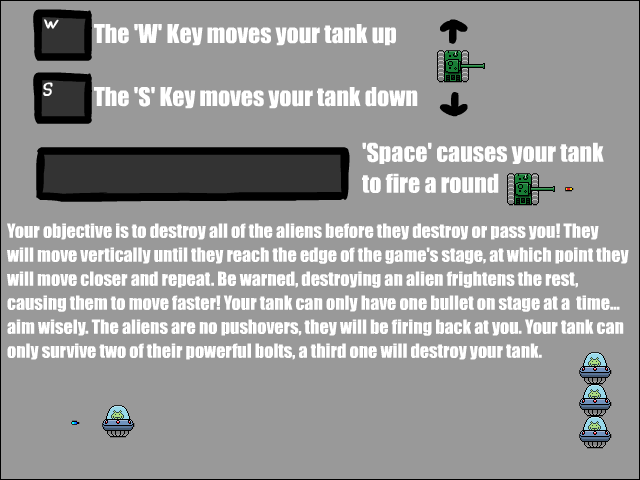
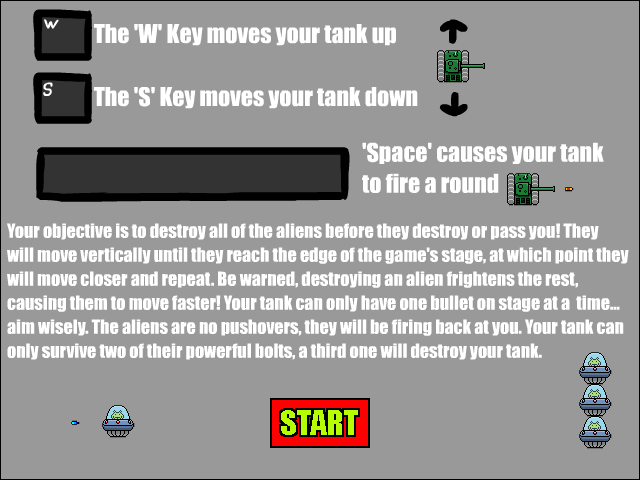
Added a game over screen. implemented scoring system. Added care package object to the game (for bonus points).

Changed region(s): [[0.4062, 0.8125, 0.5938, 0.9375]]

diff --git a/COMP2068-Assignment3/Scripts/states/play.ts b/COMP2068-Assignment3/Scripts/states/play.ts
@@ -5,8 +5,10 @@ module states {
      */
     export function playState(): void {
         tank.update(); //updates tank's position
-        //island.update(); //updates island's position
+        carePackage.update(); //updates carePackage's position
         //ocean.update(); //updates ocean's position
+
+        checkCollision(tank, false, carePackage, true);
 
         //if the tank's bullet is onscreen...
         if (tank.bulletOnScreen) {
@@ -27,11 +29,14 @@ module states {
 
             aliens[alien].checkTarget(); //check if the tank is in firing range
 
-            checkCollision(tank, aliens[alien]); //check if the tank and alien have collided
+            //check if the tank and alien have collided
+            //tank takes damage, the alien does not
+            checkCollision(tank, true, aliens[alien], false);
 
             //if the bullet is onscreen...
             if (tank.bulletOnScreen) {
-                checkCollision(tank.bullet, aliens[alien]); //check if the alien collided with it
+                //check if the alien collided with it
+                checkCollision(tank.bullet, true,  aliens[alien], true);
             } //if ends
         } //for ends
 
@@ -41,7 +46,8 @@ module states {
 
             //only check for collision if the bolt wasn't removed from the game in its update
             if (bolts[bolt] != null) {
-                checkCollision(tank, bolts[bolt]); //check if it collided with the tank
+                //check if it collided with the tank
+                checkCollision(tank, true, bolts[bolt], true); 
             } //if ends
         } //for ends
 
@@ -49,6 +55,12 @@ module states {
         for (var explosion = numberOfExplosions - 1; explosion >= 0; explosion--) {
             explosions[explosion].checkTime(); //check if it should stay on screen
         } //for ends
+
+        if (numberOfAliens == 0) {
+            score += 5000;
+            currentState = constants.GAME_OVER_STATE;
+            changeState(currentState);
+        } //if ends
     } //function playState ends
 
     /*
@@ -66,13 +78,16 @@ module states {
         //initialize the bolts of explosions to 0
         numberOfBolts = 0;
 
+        //initialize score to 0
+        score = 0;
+
         //add background to game
         background = new objects.Background();
         stage.addChild(background);
     
         //add island to game
-        island = new objects.Island();
-        stage.addChild(island);
+        carePackage = new objects.CarePackage();
+        stage.addChild(carePackage);
 
         //add tank to game
         tank = new objects.Tank();
@@ -111,7 +126,7 @@ module states {
     /*
      * This function checks for collisions between two game objects.
      */
-    function checkCollision(collider1: objects.GameObject, collider2: objects.GameObject) {
+    function checkCollision(collider1: objects.GameObject, takesDamage1: boolean, collider2: objects.GameObject, takesDamage2: boolean) {
         //create points for each of the objects positions
         var p1: createjs.Point = new createjs.Point();
         var p2: createjs.Point = new createjs.Point();
@@ -133,9 +148,15 @@ module states {
                 collider1.isColliding = true;
                 collider2.isColliding = true;
 
-                //call the collide method of each object
-                collider1.collide();
-                collider2.collide();
+                //if the first objects takes damage from the collision...
+                if (takesDamage1) {
+                    collider1.collide(); //call its collide method
+                } //if ends
+
+                //if the second objects takes damage from the collision...
+                if (takesDamage2) {
+                    collider2.collide(); //call its collide method
+                } //if ends
             } //if ends
         } //if ends
 

diff --git a/COMP2068-Assignment3/Scripts/game.js b/COMP2068-Assignment3/Scripts/game.js
@@ -60,6 +60,11 @@
  *
  * v0.14:
  * -Added an instructions screen to the game.
+ *
+ * v0.15:
+ * -Added a game over screen.
+ * -implemented scoring system.
+ * -Added care package object to the game (for bonus points).
  */
 /// <reference path="typings/createjs-lib/createjs-lib.d.ts" />
 /// <reference path="typings/easeljs/easeljs.d.ts" />
@@ -68,7 +73,7 @@
 /// <reference path="typings/preloadjs/preloadjs.d.ts" />
 /// <reference path="objects/gameobject.ts" />
 /// <reference path="objects/alien.ts" />
-/// <reference path="objects/island.ts" />
+/// <reference path="objects/carePackage.ts" />
 /// <reference path="objects/background.ts" />
 /// <reference path="objects/tank.ts" />
 /// <reference path="objects/bullet.ts" />
@@ -77,6 +82,7 @@
 /// <reference path="constants.ts" />
 /// <reference path="states/play.ts" />
 /// <reference path="states/menu.ts" />
+/// <reference path="states/gameover.ts" />
 /// <reference path="states/instructions.ts" />
 //Canvas and Asset Objects
 var canvas;
@@ -84,7 +90,7 @@ var stage;
 var assetLoader;
 //Game Objects and Variables
 var tank;
-var island;
+var carePackage;
 var aliens = [];
 var background;
 var numberOfAliens;
@@ -96,13 +102,15 @@ var startButton;
 var instructionsButton;
 var menuScreen;
 var instructionsScreen;
+var score;
+var scoreText;
 //state objects
 var currentState;
 var currentStateFunction;
 //asset manifest - array of asset objects
 var manifest = [
     { id: "alien", src: "assets/images/Alien.png" },
-    { id: "island", src: "assets/images/island.png" },
+    { id: "carePackage", src: "assets/images/CarePackage.png" },
     { id: "background", src: "assets/images/Background.png" },
     { id: "tank", src: "assets/images/Tank.png" },
     { id: "bullet", src: "assets/images/Bullet.png" },
@@ -152,6 +160,8 @@ function changeState(state) {
             states.play();
             break;
         case constants.GAME_OVER_STATE:
+            currentStateFunction = states.gameOverState;
+            states.gameOver();
             break;
         case constants.INSTRUCTIONS_STATE:
             currentStateFunction = states.instructionsState;

diff --git a/COMP2068-Assignment3/Scripts/objects/carePackage.ts b/COMP2068-Assignment3/Scripts/objects/carePackage.ts
@@ -1,40 +1,34 @@
 module objects {
-    export class Island extends createjs.Bitmap {
-        //instance variables
-        public width;
-        public height;
-        private _dy = 5;
-
+    export class CarePackage extends objects.GameObject {
[1 lines of base64/hex data omitted]
         constructor() {
-            super(assetLoader.getResult("island"));
-
-            this.width = this.getBounds().width;
-            this.height = this.getBounds().height;
-
-            this.regX = this.getBounds().width * 0.5;
-            this.regY = this.getBounds().height * 0.5;
+            super("carePackage");
 
             this._reset();
         } //constructor ends
 
         //Private Methods/////////////////////////////////////////////////////////////////////////
         private _reset() {
-            //set x to a random number
-            this.x = Math.floor(Math.random() * 640);
-            this.y = -this.width;
+            this.x = 1280 + this.width;
+            this.y = Math.floor(Math.random() * 480);
         } //method reset ends
 
         private _checkBounds() {
-            if (this.y > 480 + this.height) {
+            if (this.x < 0 - this.width) {
                 this._reset();
             } //if ends
         } //method checkBounds ends
+
         //Public Methods//////////////////////////////////////////////////////////////////////////
-        update() {
-            this.y += this._dy;
+        public update(): void {
+            this.x -= 5;
 
             this._checkBounds();
         } //method update ends
-    } //class Plane ends
+
+        public collide(): void {
+            score += 300;
+            this._reset();
+        } //method collide ends
+    } //class CarePackage ends
 } //module objects ends  

diff --git a/COMP2068-Assignment3/Scripts/objects/alien.ts b/COMP2068-Assignment3/Scripts/objects/alien.ts
@@ -79,6 +79,11 @@ module objects {
          * This method updates the alien's position
          */
         public update(): void {
+            if (this.x < 0) {
+                currentState = constants.GAME_OVER_STATE
+                changeState(currentState);
+            } //if ends
+
             //if the alien is moving forward...
             if (this._movingForward) {
                 //if the alien's speed is greater than 0...
@@ -135,6 +140,9 @@ module objects {
          * or a bullet.
          */
         public collide(): void {
+            //add to the score based on how far away the alien was
+            score += Math.floor(this.x);
+
             //create an explosion at the place the collision occured
             explosions[numberOfExplosions] = new objects.Explosion(this.x, this.y);
             stage.addChild(explosions[numberOfExplosions]);

diff --git a/COMP2068-Assignment3/Scripts/states/menu.ts b/COMP2068-Assignment3/Scripts/states/menu.ts
@@ -37,7 +37,8 @@
     } //function menu ends
 
     export function startButtonClick() {
-        changeState(constants.PLAY_STATE);
+        currentState = constants.PLAY_STATE;
+        changeState(currentState);
     } //function playButtonClick ends
 
     export function startButtonMouseOver() {
@@ -49,7 +50,8 @@
     } //function playButtonMouseOver ends
 
     export function instructionsButtonClick() {
-        changeState(constants.INSTRUCTIONS_STATE);
+        currentState = constants.INSTRUCTIONS_STATE;
+        changeState(currentState);
     } //function playButtonClick ends
 
     export function instructionsButtonMouseOver() {
@@ -59,5 +61,4 @@
     export function instructionsButtonMouseOut() {
         instructionsButton.alpha = 1;
     } //function playButtonMouseOver ends
-
 } //module states ends

diff --git a/COMP2068-Assignment3/index.html b/COMP2068-Assignment3/index.html
@@ -20,7 +20,7 @@
     <!--Game Scripts-->
     <script src="Scripts/objects/gameObject.js"></script>
     <script src="Scripts/objects/tank.js"></script>
-    <script src="Scripts/objects/island.js"></script>
+    <script src="Scripts/objects/carePackage.js"></script>
     <script src="Scripts/objects/alien.js"></script>
     <script src="Scripts/objects/background.js"></script>
     <script src="Scripts/objects/bullet.js"></script>
@@ -29,6 +29,7 @@
     <script src="Scripts/constants.js"></script>
     <script src="Scripts/states/menu.js"></script>
     <script src="Scripts/states/play.js"></script>
+    <script src="Scripts/states/gameOver.js"></script>
     <script src="Scripts/states/instructions.js"></script>
 
     <script src="Scripts/game.js"></script>

diff --git a/COMP2068-Assignment3/Scripts/states/instructions.ts b/COMP2068-Assignment3/Scripts/states/instructions.ts
@@ -14,5 +14,15 @@
         instructionsScreen = new createjs.Bitmap("assets/images/InstructionsScreen.png");
         instructionsScreen.x = 320;
         stage.addChild(instructionsScreen);
+
+        //add the start button
+        startButton = new createjs.Bitmap("assets/images/StartButton.png");
+        startButton.x = 590;
+        startButton.y = 398;
+        stage.addChild(startButton);
+
+        startButton.addEventListener("click", startButtonClick);
+        startButton.addEventListener("mouseover", startButtonMouseOver);
+        startButton.addEventListener("mouseout", startButtonMouseOut);
     } //function instructions ends
 } //module states ends

diff --git a/COMP2068-Assignment3/Scripts/states/gameOver.ts b/COMP2068-Assignment3/Scripts/states/gameOver.ts
@@ -1,0 +1,16 @@
+module states {
+    export function gameOverState() {
+        background.update();
+    } //function gameOverState ends
+
+    export function gameOver() {
+        stage.removeAllChildren(); //clear the stage
+        stage.removeAllEventListeners(); //remove event listeners
+
+        background = new objects.Background();
+        stage.addChild(background);
+
+        scoreText = new createjs.Text("Final Score: " + score, "72px Arial", "Red");
+        stage.addChild(scoreText);
+    } //function gameOver ends
+} //module states ends 

diff --git a/COMP2068-Assignment3/Scripts/objects/tank.ts b/COMP2068-Assignment3/Scripts/objects/tank.ts
@@ -31,7 +31,8 @@ module objects {
          */
         public update(): void {
             if (this._health <= 0) {
-                this.visible = false;
+                currentState = constants.GAME_OVER_STATE;
+                changeState(currentState);
             } //if ends
 
             //if the tank is moving up... 
